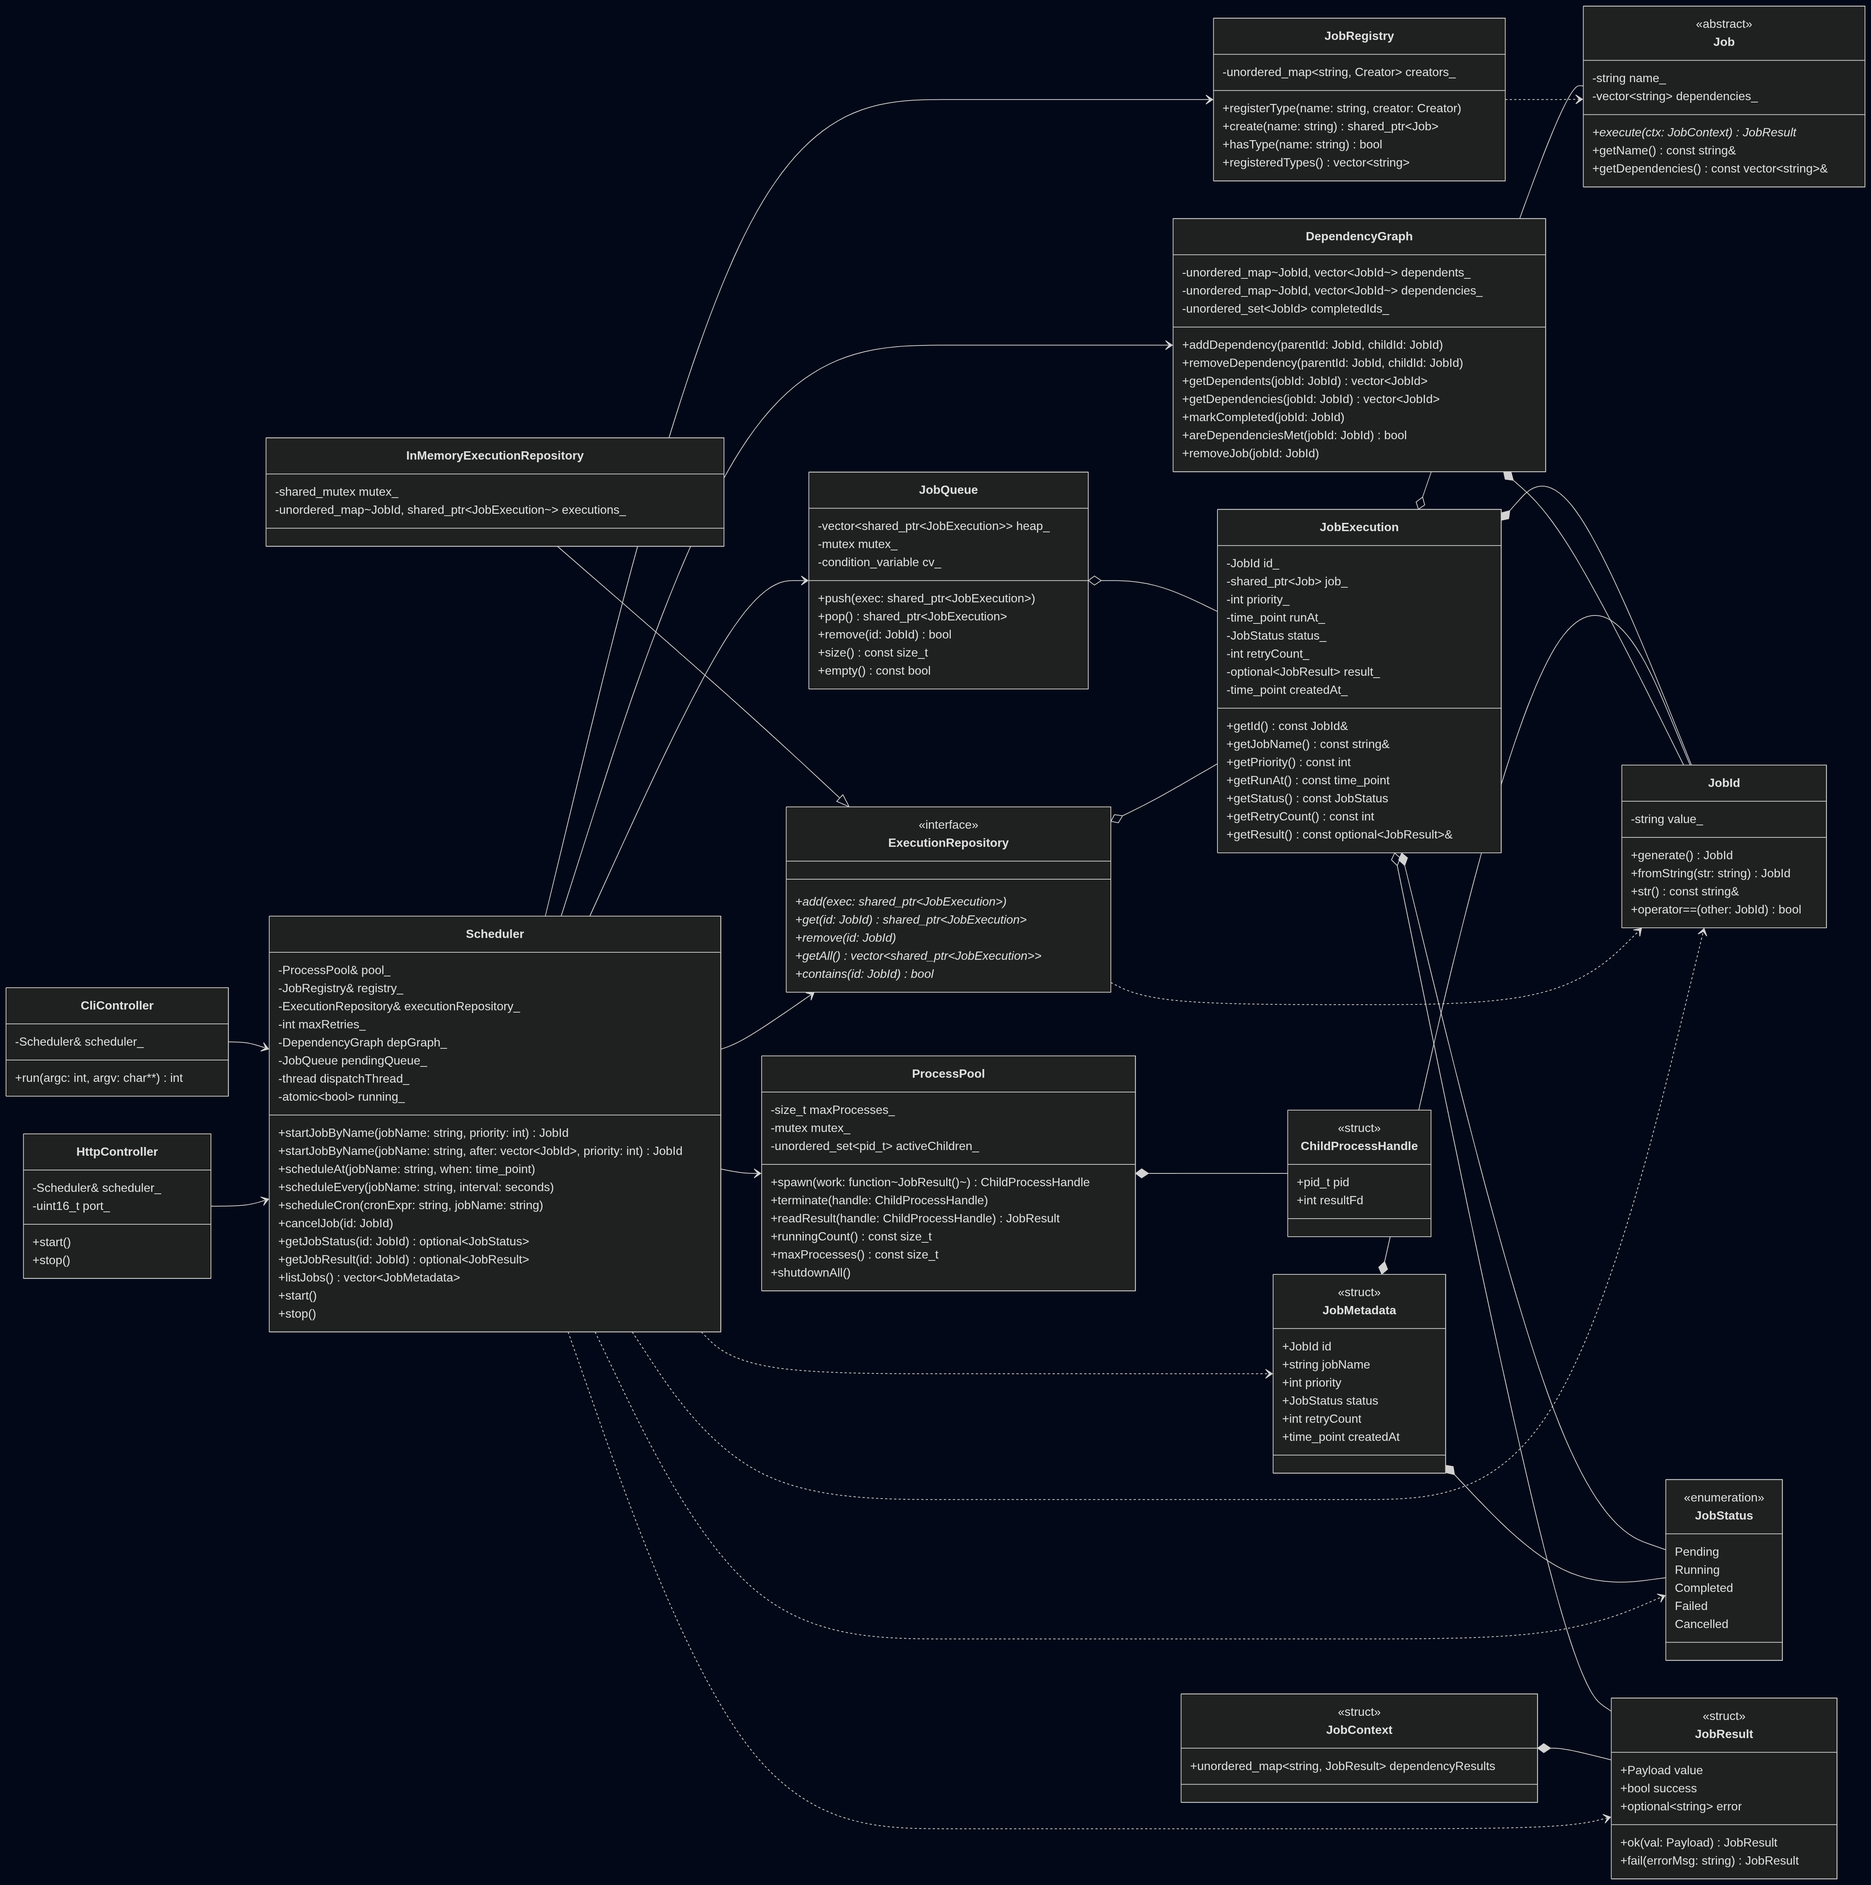
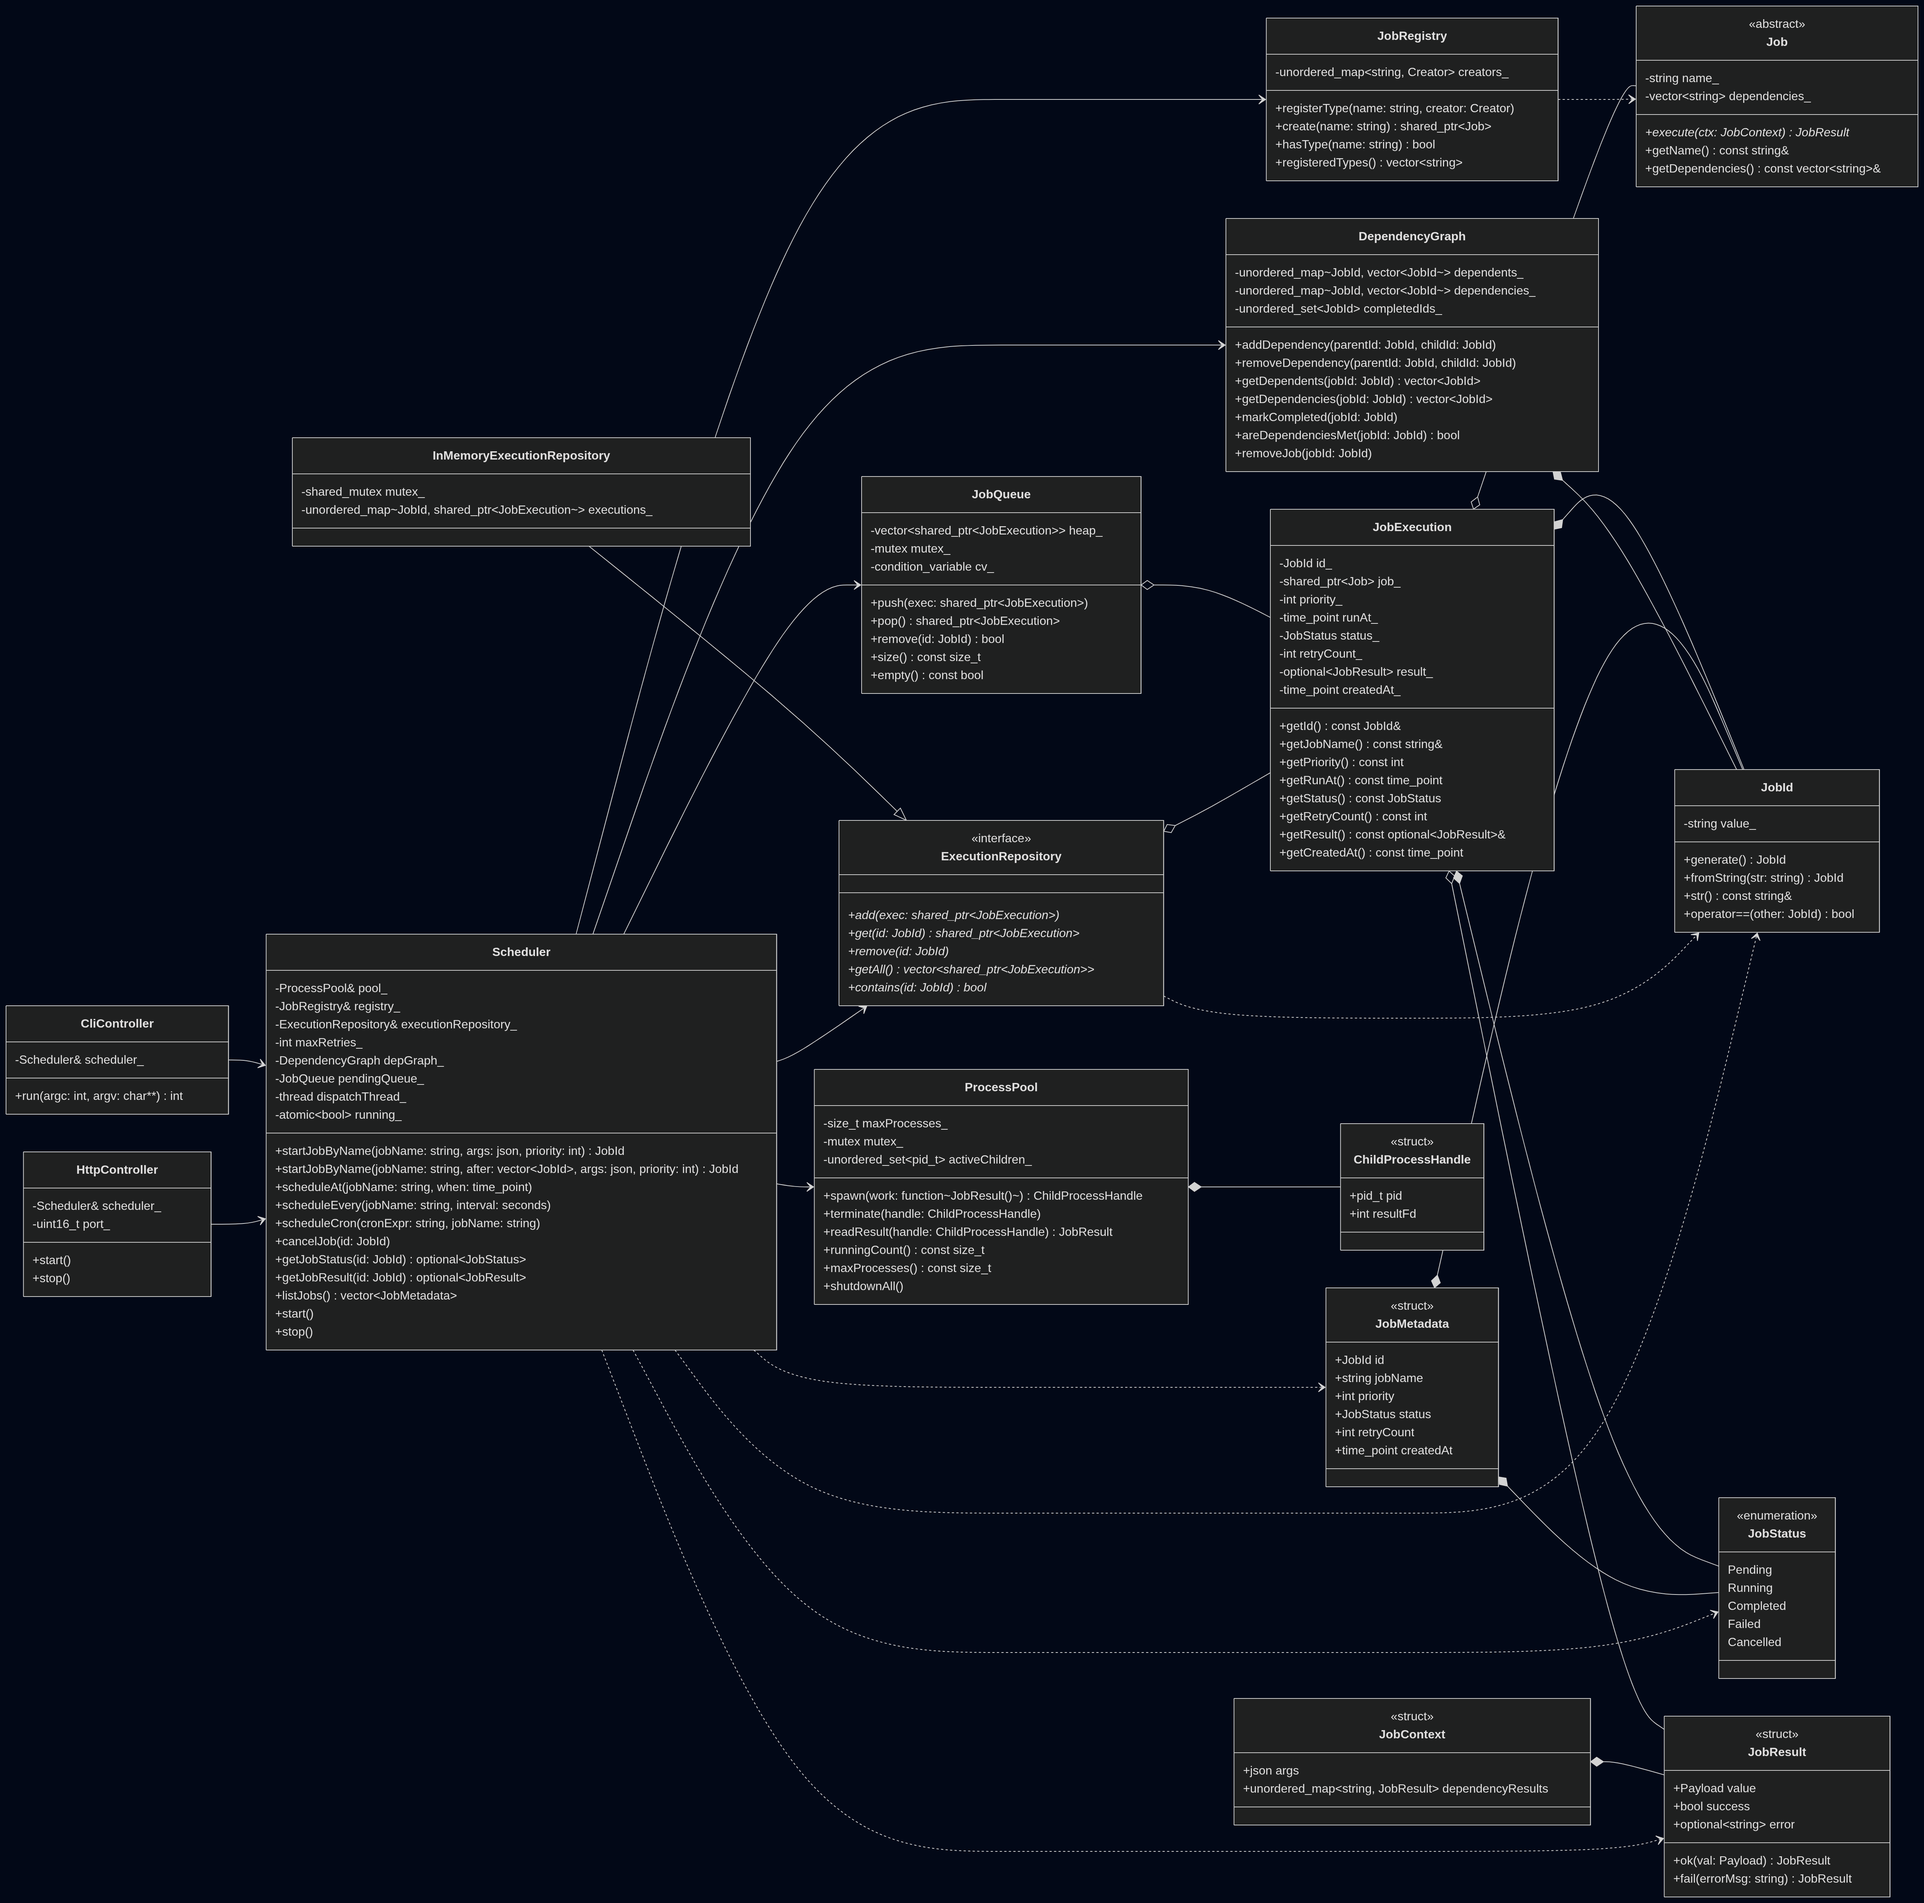
Add support for args

diff --git a/include/scheduler/scheduler.hpp b/include/scheduler/scheduler.hpp
@@ -2,6 +2,7 @@
 
 #include <atomic>
 #include <chrono>
+#include <nlohmann/json.hpp>
 #include <optional>
 #include <string>
 #include <thread>
@@ -22,8 +23,9 @@ public:
     Scheduler(ProcessPool& pool, JobRegistry& registry, ExecutionRepository& executionRepository, int maxRetries = 3);
     ~Scheduler();
 
-    JobId startJobByName(const std::string& jobName, int priority = 0);
-    JobId startJobByName(const std::string& jobName, std::vector<JobId> after, int priority = 0);
+    JobId startJobByName(const std::string& jobName, nlohmann::json args = {}, int priority = 0);
+    JobId startJobByName(const std::string& jobName, std::vector<JobId> after, nlohmann::json args = {},
+                         int priority = 0);
 
     void scheduleAt(const std::string& jobName, std::chrono::system_clock::time_point when);
     void scheduleEvery(const std::string& jobName, std::chrono::seconds interval);
@@ -46,4 +48,6 @@ private:
     int maxRetries_;
     DependencyGraph depGraph_;
     JobQueue pendingQueue_;
+    std::thread dispatchThread_;
+    std::atomic<bool> running_{false};
 };

diff --git a/include/core/job_context.hpp b/include/core/job_context.hpp
@@ -1,10 +1,12 @@
 #pragma once
 
+#include <nlohmann/json.hpp>
 #include <string>
 #include <unordered_map>
 
 #include "core/job_result.hpp"
 
 struct JobContext {
+    nlohmann::json args;
     std::unordered_map<std::string, JobResult> dependencyResults;
 };
